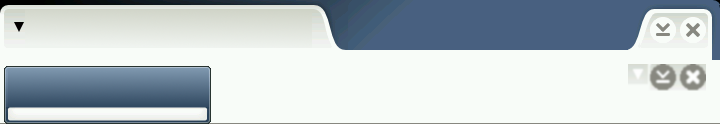
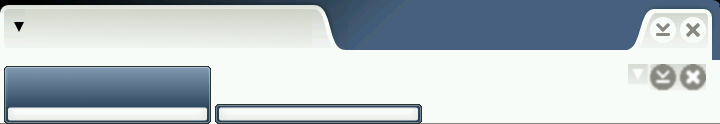
2007-11-14  Tomas Frydrych  <tf@o-hand.com>
* src/core/mb-window-manager.c:
        * src/core/mb-wm-types.h:
        * src/client-types/Makefile.am:
	* src/client-types/mb-wm-client-note.h:
	* src/client-types/mb-wm-client-note.c:
        * src/managers/maemo/Makefile.am:
        * src/managers/maemo/maemo-window-manager.c
        * src/managers/simple/Makefile.am:
	* src/theme-engines/mb-wm-theme.c:
	Added MBWMClientNote type.

        * src/core/mb-wm-client-window.h:
        * src/core/mb-wm-client-window.c:
	Processing of gravity hint.

        * src/client-types/mb-wm-client-dialog.c:
	(mb_wm_client_dialog_show):
	Fixed up chaining to parent class method to avoid circularity for
	derived classes.

	(mb_wm_client_dialog_init):
	Fixed flags in call to mb_wm_client_dialog_request_geometry().

        * src/core/mb-wm-client.c:
	(mb_wm_client_destroy):
	Plugged a leaking MBWMList.

        * src/managers/maemo/theme/background.png:
        * src/managers/maemo/theme/theme.xml:
	Themed notification clients.

Changed region(s): [[0.275, 0.8226, 0.6111, 1.0]]

diff --git a/src/client-types/mb-wm-client-note.c b/src/client-types/mb-wm-client-note.c
@@ -1,0 +1,142 @@
+/*
+ *  Matchbox Window Manager II - A lightweight window manager not for the
+ *                               desktop.
+ *
+ *  Authored By Tomas Frydrych <tf@o-hand.com>
+ *
+ *  Copyright (c) 2007 OpenedHand Ltd - http://o-hand.com
+ *
+ *  This program is free software; you can redistribute it and/or modify
+ *  it under the terms of the GNU General Public License as published by
+ *  the Free Software Foundation; either version 2, or (at your option)
+ *  any later version.
+ *
+ *  This program is distributed in the hope that it will be useful,
+ *  but WITHOUT ANY WARRANTY; without even the implied warranty of
+ *  MERCHANTABILITY or FITNESS FOR A PARTICULAR PURPOSE.  See the
+ *  GNU General Public License for more details.
+ *
+ */
+
+#include "mb-wm-client-note.h"
+
+#include "mb-wm-theme.h"
+
+static void
+mb_wm_client_note_class_init (MBWMObjectClass *klass)
+{
+  MBWindowManagerClientClass *client;
+
+  MBWM_MARK();
+
+  client = (MBWindowManagerClientClass *)klass;
+
+  client->client_type  = MBWMClientTypeNote;
+
+#ifdef MBWM_WANT_DEBUG
+  klass->klass_name = "MBWMClientNote";
+#endif
+}
+
+static void
+mb_wm_client_note_destroy (MBWMObject *this)
+{
+}
+
+static int
+mb_wm_client_note_init (MBWMObject *this, va_list vap)
+{
+  MBWindowManagerClient *client = MB_WM_CLIENT (this);
+  MBWindowManager       *wm = client->wmref;
+  MBWMClientWindow      *win = client->window;
+  MBGeometry             geom;
+  Bool                   change = False;
+
+  geom = client->frame_geometry;
+
+  if (geom.x >= wm->xdpy_width)
+    {
+      geom.x = wm->xdpy_width - geom.width;
+      change = True;
+    }
+
+  if (geom.y >= wm->xdpy_height)
+    {
+      geom.y = wm->xdpy_height - geom.height;
+      change = True;
+    }
+
+  switch (win->gravity)
+    {
+    case SouthGravity:
+      geom.y = wm->xdpy_height - geom.height;
+      change = True;
+      break;
+    case EastGravity:
+      geom.x = wm->xdpy_width - geom.width;
+      change = True;
+      break;
+    case SouthEastGravity:
+      geom.y = wm->xdpy_height - geom.height;
+      geom.x = wm->xdpy_width - geom.width;
+      change = True;
+      break;
+    case NorthGravity:
+      geom.y = 0;
+      change = True;
+      break;
+    case WestGravity:
+      geom.x = 0;
+      change = True;
+      break;
+    case NorthWestGravity:
+    case CenterGravity:
+    case StaticGravity:
+    default:
+      ;
+    }
+
+  if (change)
+    {
+      mb_wm_client_request_geometry (client, &geom, MBWMClientReqGeomForced);
+      mb_wm_client_geometry_mark_dirty (client);
+    }
+
+  return 1;
+}
+
+int
+mb_wm_client_note_class_type ()
+{
+  static int type = 0;
+
+  if (UNLIKELY(type == 0))
+    {
+      static MBWMObjectClassInfo info = {
+	sizeof (MBWMClientNoteClass),
+	sizeof (MBWMClientNote),
+	mb_wm_client_note_init,
+	mb_wm_client_note_destroy,
+	mb_wm_client_note_class_init
+      };
+
+      type = mb_wm_object_register_class (&info, MB_WM_TYPE_CLIENT_DIALOG, 0);
+    }
+
+  return type;
+}
+
+MBWindowManagerClient*
+mb_wm_client_note_new (MBWindowManager *wm, MBWMClientWindow *win)
+{
+  MBWindowManagerClient *client;
+
+  client
+    = MB_WM_CLIENT (mb_wm_object_new (MB_WM_TYPE_CLIENT_NOTE,
+				      MBWMObjectPropWm,           wm,
+				      MBWMObjectPropClientWindow, win,
+				      NULL));
+
+  return client;
+}
+

diff --git a/src/client-types/mb-wm-client-dialog.c b/src/client-types/mb-wm-client-dialog.c
@@ -20,10 +20,27 @@ mb_wm_client_dialog_stack (MBWindowManagerClient *client,
 static void
 mb_wm_client_dialog_show (MBWindowManagerClient *client)
 {
-  MBWindowManagerClientClass  *parent_klass;
+  MBWindowManagerClientClass  *parent_klass = NULL;
 
-  parent_klass =
-    MB_WM_CLIENT_CLASS(MB_WM_OBJECT_GET_PARENT_CLASS(client));
+  /*
+   * We need the parent of the MBWMClientDialogClass to chain up
+   */
+  if (MB_WM_IS_CLIENT_DIALOG (client))
+    parent_klass = MB_WM_CLIENT (MB_WM_OBJECT_GET_PARENT_CLASS (client));
+  else
+    {
+      /*
+       * A derived klass -- need to traverse the klass hierarchy to get to
+       * the dialog klass
+       */
+      MBWMObjectClass * object_klass = MB_WM_OBJECT_GET_PARENT_CLASS (client);
+
+      while (object_klass && object_klass->type != MB_WM_TYPE_CLIENT_DIALOG)
+	object_klass = object_klass->parent;
+
+      if (object_klass && object_klass->parent)
+	parent_klass = MB_WM_CLIENT_CLASS (object_klass->parent);
+    }
 
   if (client->transient_for != NULL)
     {
@@ -45,7 +62,7 @@ mb_wm_client_dialog_show (MBWindowManagerClient *client)
 	mb_wm_client_show (parent);
     }
 
-  if (parent_klass->show)
+  if (parent_klass && parent_klass->show)
     parent_klass->show(client);
 }
 
@@ -121,9 +138,11 @@ mb_wm_client_dialog_init (MBWMObject *this, va_list vap)
     }
 
   /* center if window sets 0,0
+   * Only do this for dialogs, not derived classes.
    * FIXME needs to work on frame, not window.
    */
-  if (client->window->geometry.x == 0 && client->window->geometry.y == 0)
+  if (MB_WM_IS_CLIENT_DIALOG (client) &&
+      client->window->geometry.x == 0 && client->window->geometry.y == 0)
     {
         MBGeometry  avail_geom;
 
@@ -153,7 +172,8 @@ mb_wm_client_dialog_init (MBWMObject *this, va_list vap)
   geom.width  = client->window->geometry.width + w + e;
   geom.height = client->window->geometry.height + n + s;
 
-  mb_wm_client_dialog_request_geometry (client, &geom, 0);
+  mb_wm_client_dialog_request_geometry (client, &geom,
+					MBWMClientReqGeomForced);
 
   return 1;
 }

diff --git a/src/client-types/mb-wm-client-note.h b/src/client-types/mb-wm-client-note.h
@@ -1,0 +1,51 @@
+/*
+ *  Matchbox Window Manager II - A lightweight window manager not for the
+ *                               desktop.
+ *
+ *  Authored By Tomas Frydrych <tf@o-hand.com>
+ *
+ *  Copyright (c) 2007 OpenedHand Ltd - http://o-hand.com
+ *
+ *  This program is free software; you can redistribute it and/or modify
+ *  it under the terms of the GNU General Public License as published by
+ *  the Free Software Foundation; either version 2, or (at your option)
+ *  any later version.
+ *
+ *  This program is distributed in the hope that it will be useful,
+ *  but WITHOUT ANY WARRANTY; without even the implied warranty of
+ *  MERCHANTABILITY or FITNESS FOR A PARTICULAR PURPOSE.  See the
+ *  GNU General Public License for more details.
+ *
+ */
+
+#ifndef _HAVE_MB_CLIENT_NOTE_H
+#define _HAVE_MB_CLIENT_NOTE_H
+
+#include "mb-wm.h"
+#include "mb-wm-client-dialog.h"
+
+typedef struct MBWMClientNote      MBWMClientNote;
+typedef struct MBWMClientNoteClass MBWMClientNoteClass;
+
+#define MB_WM_CLIENT_NOTE(c) ((MBWMClientNote*)(c))
+#define MB_WM_CLIENT_NOTE_CLASS(c) ((MBWMClientNoteClass*)(c))
+#define MB_WM_TYPE_CLIENT_NOTE (mb_wm_client_note_class_type ())
+#define MB_WM_IS_CLIENT_NOTE(c) (MB_WM_OBJECT_TYPE(c)==MB_WM_TYPE_CLIENT_NOTE)
+
+struct MBWMClientNote
+{
+  MBWMClientDialog  parent;
+};
+
+struct MBWMClientNoteClass
+{
+  MBWMClientDialogClass parent;
+};
+
+MBWindowManagerClient*
+mb_wm_client_note_new (MBWindowManager *wm, MBWMClientWindow *win);
+
+int
+mb_wm_client_note_class_type ();
+
+#endif

diff --git a/src/core/mb-wm-client.c b/src/core/mb-wm-client.c
@@ -73,7 +73,6 @@ mb_wm_client_destroy (MBWMObject *obj)
   if (client->transient_for)
     mb_wm_client_remove_transient (client->transient_for, client);
 
-#if 1
   /* If we have transient windows, we need to make sure they are unmapped; for
    * application  dialogs this will happen automatically, but not for external
    * transients, such as input windows.
@@ -85,11 +84,15 @@ mb_wm_client_destroy (MBWMObject *obj)
   while (l)
     {
       MBWindowManagerClient * c = l->data;
+      MBWMList * l2 = l;
+
       c->transient_for = NULL;
       XUnmapWindow (wm->xdpy, c->window->xwindow);
+
       l = l->next;
+
+      free (l2);
     }
-#endif
 }
 
 static Bool

diff --git a/src/core/mb-window-manager.c b/src/core/mb-window-manager.c
@@ -49,7 +49,7 @@ mb_wm_client_new_func (MBWindowManager *wm, MBWMClientWindow *win)
   else if (win->net_type == wm->atoms[MBWM_ATOM_NET_WM_WINDOW_TYPE_NOTIFICATION])
     {
       MBWM_DBG ("### is notification ###\n");
-      return mb_wm_client_dialog_new(wm, win);
+      return mb_wm_client_note_new(wm, win);
     }
   else if (win->net_type ==wm->atoms[MBWM_ATOM_NET_WM_WINDOW_TYPE_MENU] ||
 	   win->net_type ==wm->atoms[MBWM_ATOM_NET_WM_WINDOW_TYPE_POPUP_MENU]||

diff --git a/src/managers/maemo/maemo-window-manager.c b/src/managers/maemo/maemo-window-manager.c
@@ -50,7 +50,7 @@ maemo_window_manager_client_new_func (MBWindowManager *wm,
   else if (win->net_type == wm->atoms[MBWM_ATOM_NET_WM_WINDOW_TYPE_NOTIFICATION])
     {
       printf("### is notifcation ###\n");
-      return mb_wm_client_dialog_new (wm, win);
+      return mb_wm_client_note_new (wm, win);
     }
   else if (win->net_type == wm->atoms[MBWM_ATOM_NET_WM_WINDOW_TYPE_DESKTOP])
     {

diff --git a/src/theme-engines/mb-wm-theme.c b/src/theme-engines/mb-wm-theme.c
@@ -819,6 +819,8 @@ xml_element_start_cb (void *data, const char *tag, const char **expat_attr)
 		c->type = MBWMClientTypeInput;
 	      else if (!strcmp (*(p+1), "desktop"))
 		c->type = MBWMClientTypeDesktop;
+	      else if (!strcmp (*(p+1), "notification"))
+		c->type = MBWMClientTypeNote;
 	    }
 	  else if (!strcmp (*p, "width"))
 	    {

diff --git a/src/core/mb-wm-client-window.c b/src/core/mb-wm-client-window.c
@@ -471,6 +471,7 @@ mb_wm_client_window_sync_properties ( MBWMClientWindow *win,
 
       win->visual   = xwin_attr->visual;
       win->colormap = xwin_attr->colormap;
+      win->gravity  = xwin_attr->win_gravity;
     }
 
   if (props_req & MBWM_WINDOW_PROP_NAME)

diff --git a/src/core/mb-wm-types.h b/src/core/mb-wm-types.h
@@ -118,6 +118,7 @@ typedef enum MBWMClientType
   MBWMClientTypeDesktop = (1 << 3),
   MBWMClientTypeInput   = (1 << 4),
   MBWMClientTypeMenu    = (1 << 5),
+  MBWMClientTypeNote    = (1 << 6),
 
   MBWMClientTypeLast    = MBWMClientTypeInput,
 } MBWMClientType;

diff --git a/src/core/mb-wm-client-window.h b/src/core/mb-wm-client-window.h
@@ -142,6 +142,8 @@ struct MBWMClientWindow
   MBWMClientWindowAllowedActions allowed_actions;
 
   unsigned long                  user_time;
+
+  int                            gravity;
 };
 
 struct MBWMClientWindowClass
